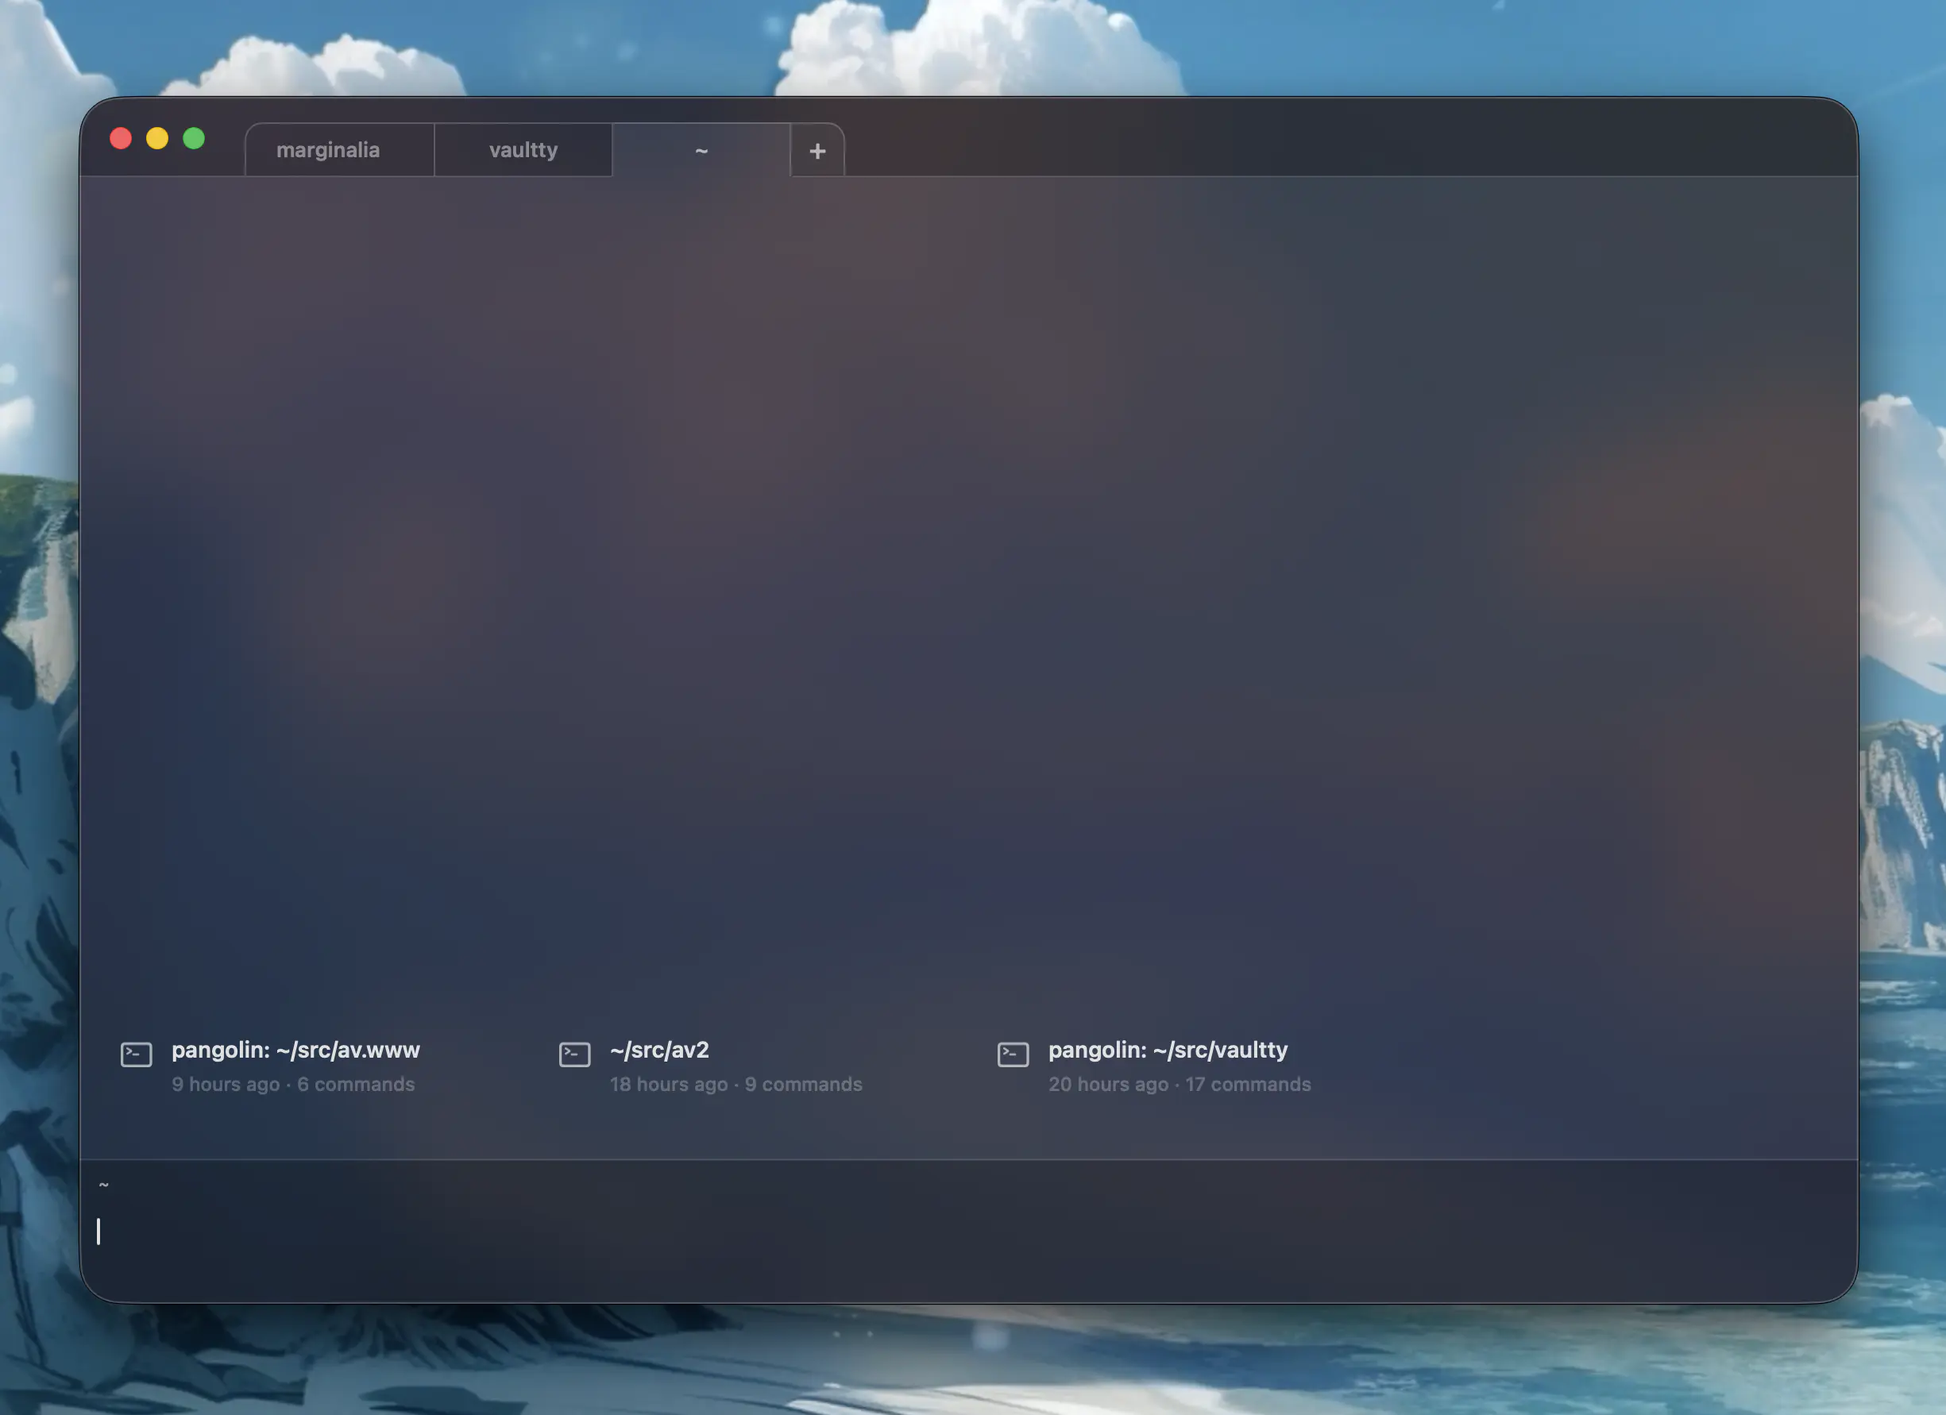
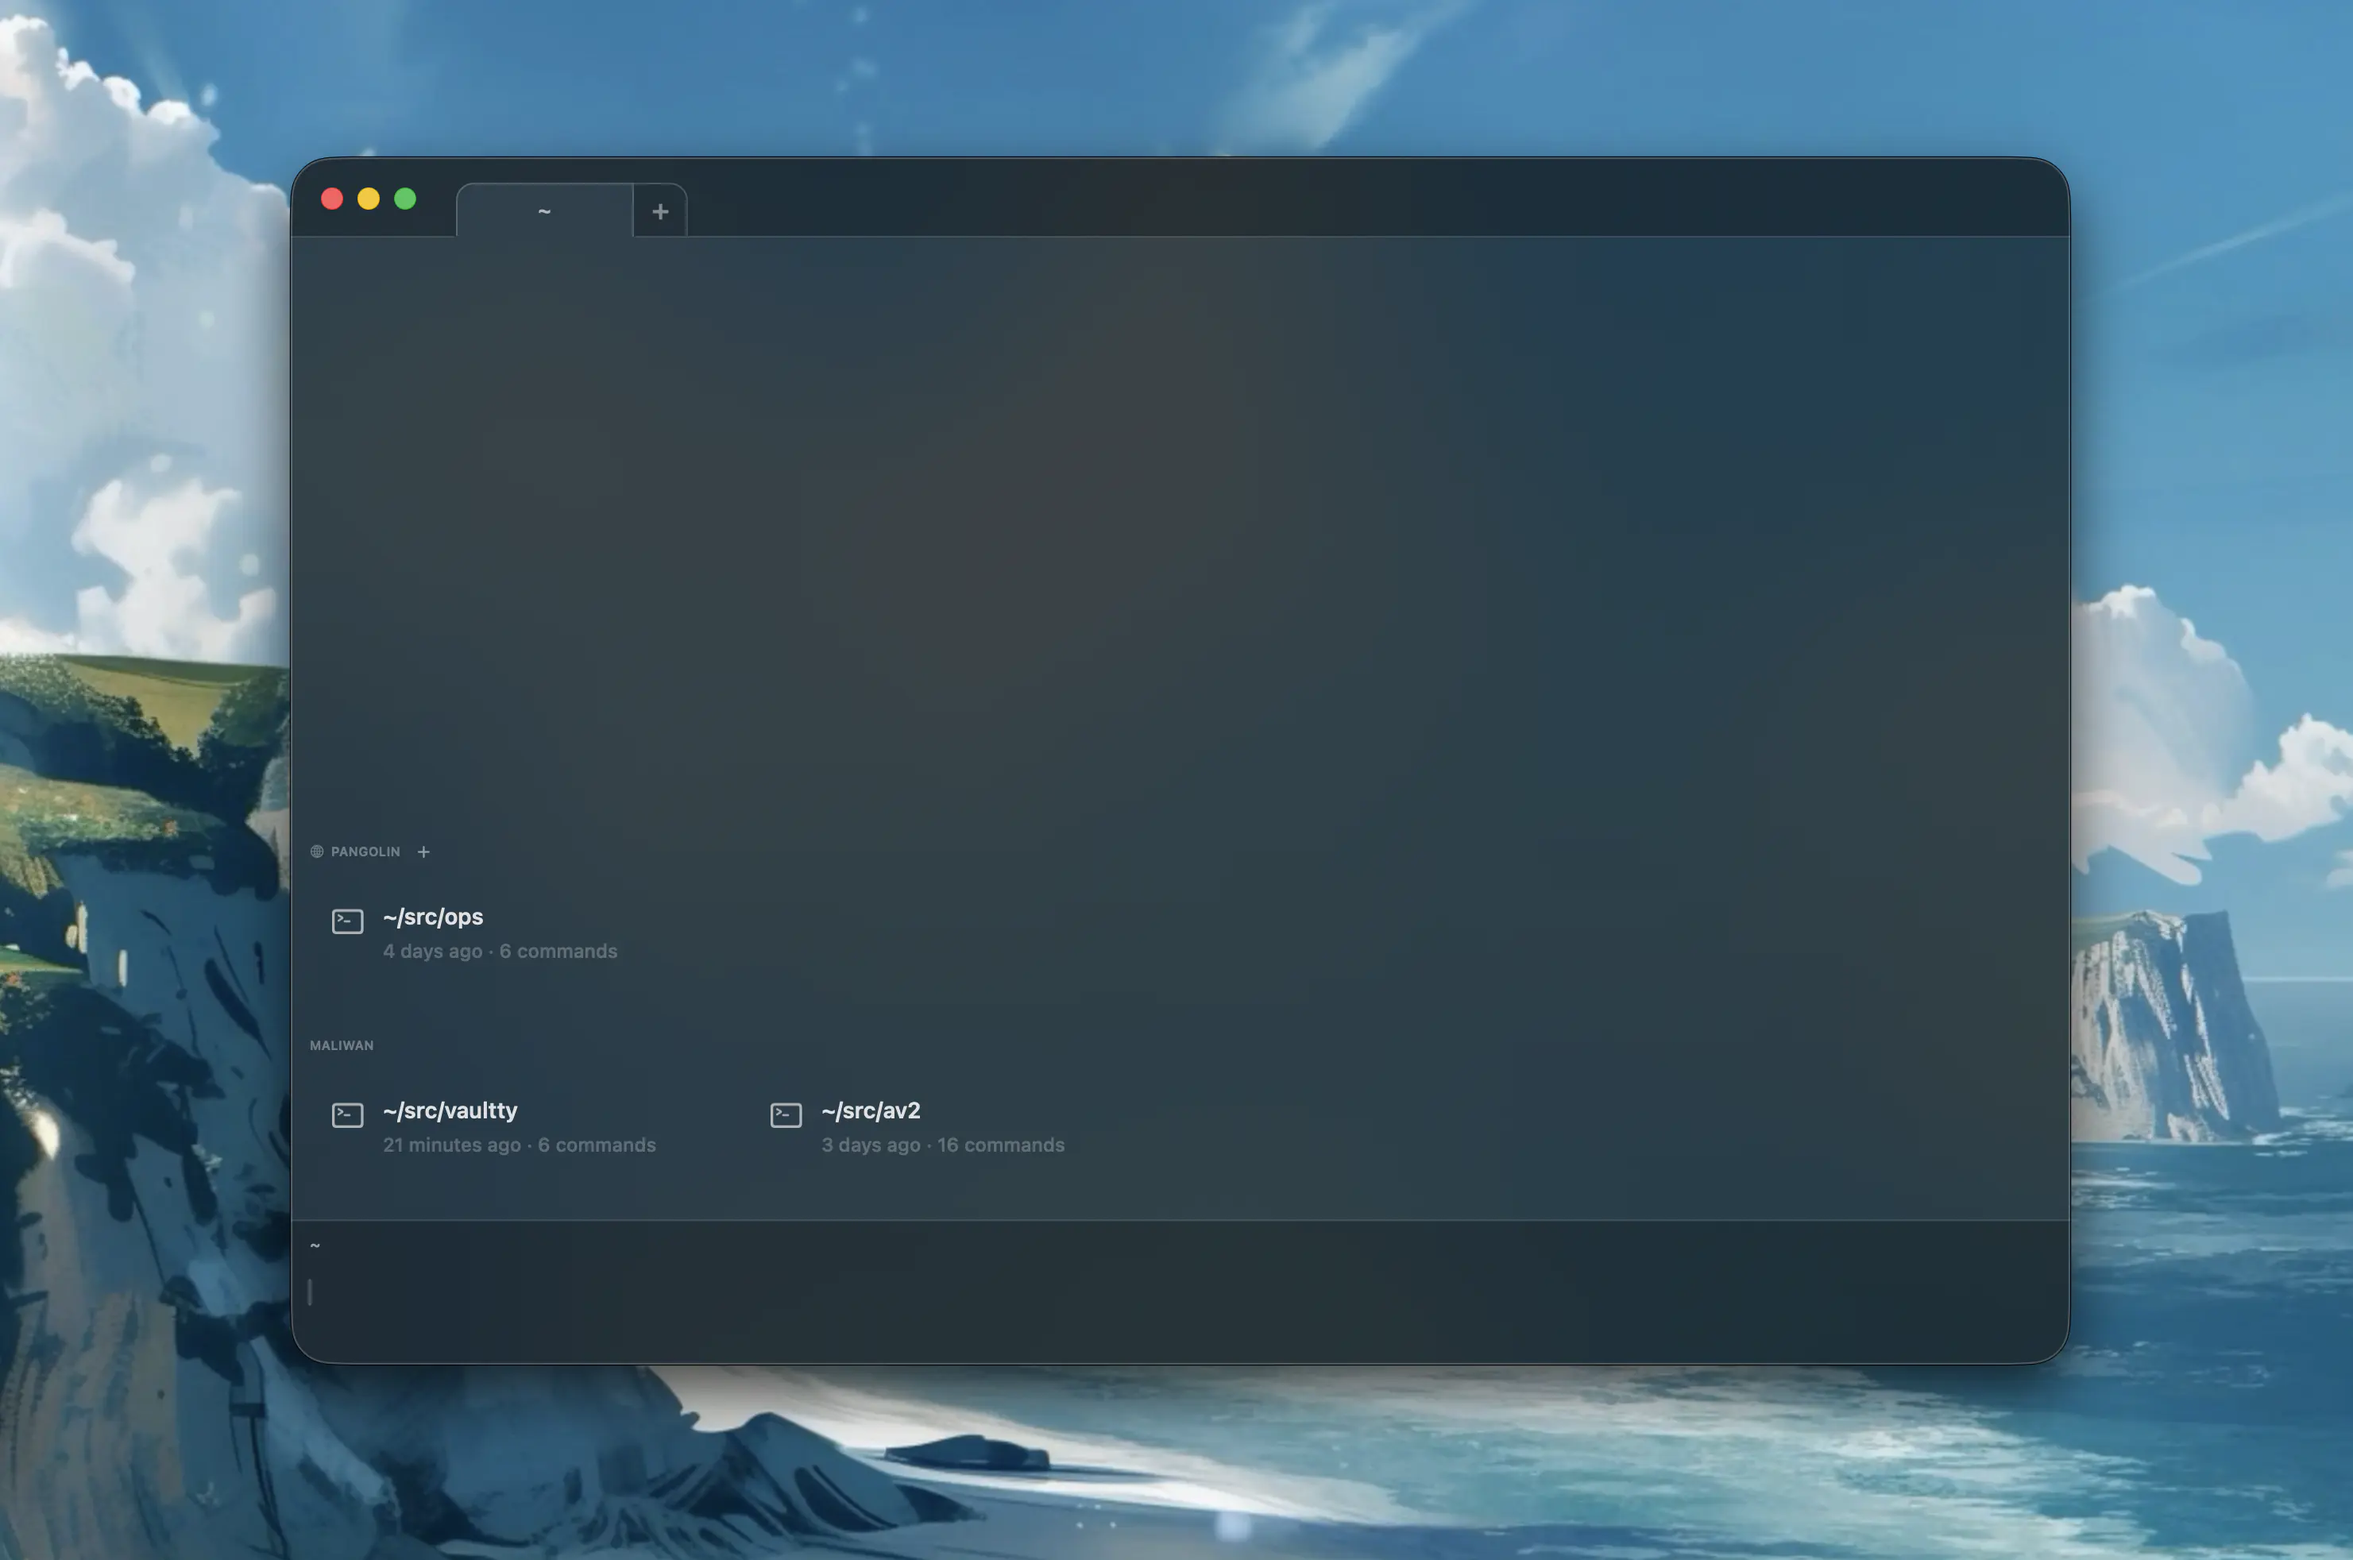
wip

diff --git a/www/app/page.tsx b/www/app/page.tsx
@@ -29,7 +29,10 @@ export default function Home() {
           <p className="lede">
             Portal is a delightful, opinionated terminal app for Mac and iPhone
             that finds your other devices automatically. Open, close and rejoin shells
-            with no setup or configuration. Just open the app.
+            with no setup or configuration.
+          </p>
+          <p className="lede">
+            Just open the app.
           </p>
           <a className="primary-action" href="#inside">
             Enter Portal
